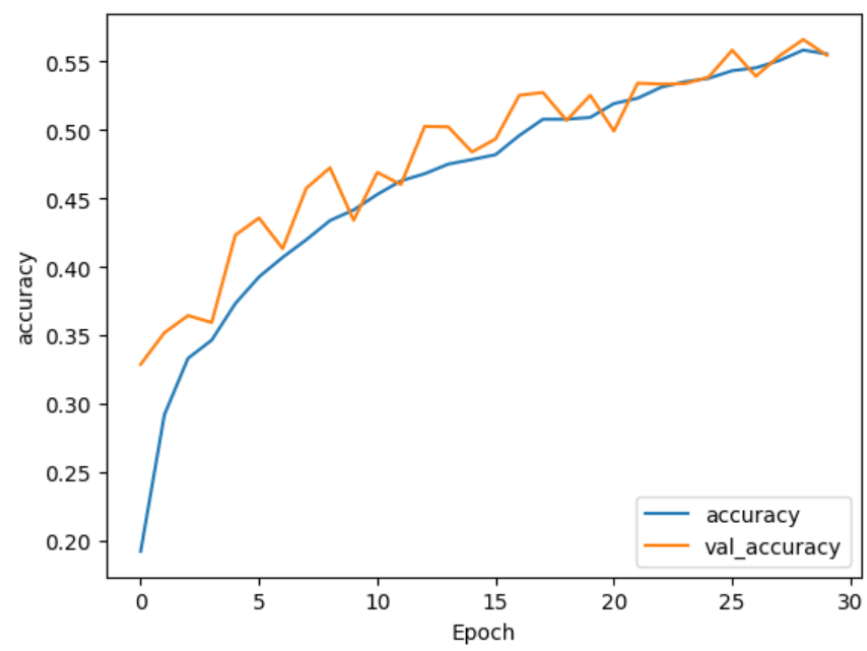
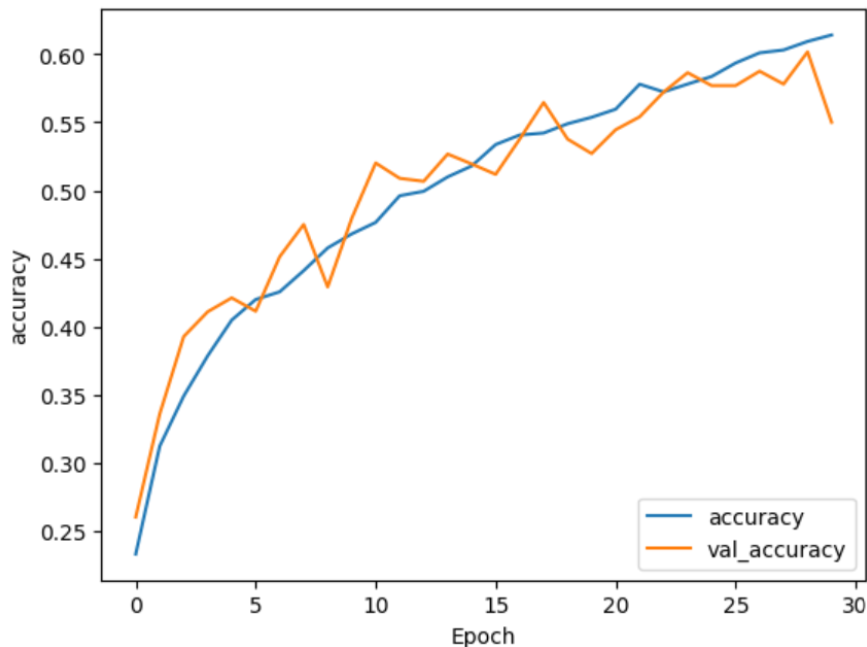
Update model evaluation and training details in paper
Revised the accuracy metrics for the simple model and added detailed evaluation results for both ImageNet and CIFAR-10 datasets. Included new references to support dataset and performance analysis, and updated the training configuration to improve GPU performance and resource management.

Changed region(s): [[0.0, 0.0, 1.0, 1.0]]

diff --git a/project/paper.tex b/project/paper.tex
@@ -111,7 +111,7 @@ These constraints were the reason why the filter depths range from 32 to 256.
     \label{fig:cnn-simple}
 \end{figure}
 
-This simple model, when trained for 30 epochs, achieved a maximum accuracy of 55.8\% at Epoch 29 as shown in Figure \ref{fig:googlenet-simple-accuracy}.
+This simple model, when trained for 30 epochs, achieved a maximum accuracy of 57.2\% at Epoch 23 as shown in Figure \ref{fig:googlenet-simple-accuracy}.
 
 The validation accuracy and training accuracy track well, indicating a lack of overfitting. Applying data augmentation to the training set mitigates overfitting, especially with the smaller dataset. The augmentation code is shown in Listing \ref{lst:augmentation}
 
@@ -158,25 +158,66 @@ The GoogLeNet architecture is explained in tabular form in Table 1 in the Szeged
 \end{figure}
 
 \subsection{Model Evaluation}
-Both networks were evaluated using two sets of images. The first is the 1,000 ImageNet images set aside prior to model training. The second set is sourced from the CIFAR-10 dataset. The CIFAR-10 dataset contains 1,000 32x32 RGB images.
+Both networks were evaluated using two sets of images. The first is the 1,000 ImageNet images set aside prior to model training. The second set is sourced from the CIFAR-10 dataset\cite{kim_cifar10_images}. The CIFAR-10 dataset contains 1,000 32x32 RGB images.
 
 \subsubsection{Performance On Unseen Imagenet Images}
+100 images from each class was set aside in order to evaluate the performance of the two models on unseen images. The accuracy of the two models is shown in \ref{tab:perf-unseen-imagenet}.
+
+\begin{table}[ht]
+    \centering
+    \begin{tabular}{ll}
+    \hline
+    \textbf{Model} & \textbf{Accuracy} \\ \hline
+    Simple & 58.1\% \\ \hline
+    GoogLeNet Reproduction & ??? \\ \hline
+    \end{tabular}
+    \caption{Models' performance on unseen ImageNet images}
+    \label{tab:perf-unseen-imagenet}
+\end{table}
+
+The simpler model's accuracy of 58.1\% on the test set is slightly better than the training accuracy of 57.2\%. This indicates that the model generalizes well and did not merely memorize the training images. In machine learning, when a model performs well on unseen data compared to the training data, it suggests that the model has learned useful patterns that extend beyond the specific examples in the training set.
+
+Furthermore, the relatively small difference in training accuracy and evaluation accuracy indicates that the model has managed to avoid overfitting. Overfitting typically results in high training accuracy but significantly lower evaluation accuracy. The fact that the model's test accuracy is slightly higher than its training accuracy can be attributed to augmentation done on the training set but not the evaluation set.
+
+On the other hand, the 58.1\% accuracy also indicates that there is room for improvement, suggesting that the model might benefit from more complexity or further tuning.
+
+
 
 \subsubsection{Performance On CIFAR-10 Images}
+The CIFAR-10 dataset consists of 1,000 32x32 RGB images (100 images per class). The accuracy of the two models against the unseen CIFAR-10 images is shown in \ref{tab:perf-unseen-imagenet}.
+
+\begin{table}[ht]
+    \centering
+    \begin{tabular}{ll}
+    \hline
+    \textbf{Model} & \textbf{Accuracy} \\ \hline
+    Simple & 21.4\% \\ \hline
+    GoogLeNet Reproduction & ??? \\ \hline
+    \end{tabular}
+    \caption{Models' performance on unseen CIFAR-10 images}
+    \label{tab:perf-unseen-imagenet}
+\end{table}
+
+The low accuracy of 21.4\% achieved by the simple model could be for several reasons. First, the models were trained on images having a relatively high resolution compared to CIFAR-10's 32x32 images. When models are trained on larger images, the models learn to identify fine-grained details which can become indistinguishable when downscaled to much smaller dimensions~\cite{simonyan2015vgg}.
+
+Additionally, the convolutional filters in the models are likely too large for the small CIFAR-10 images, causing the network to miss out on important features. In a 32x32 image, for instance, using large filter sizes or pooling layers can result in excessive downsampling, leading to a significant loss of spatial information, which ultimately hampers the model's ability to classify the images accurately.
+
+Finally, CIFAR-10, like ImageNet, contains complex image classes, which are often difficult to distinguish at such a low resolution. The limited information provided by 32x32 images presents additional challenges for models trained on high-resolution images, as they may rely on more detailed textures and edges, which are not as pronounced in low-resolution images~\cite{krizhevsky2012imagenet}.
+
 
 \subsection{Challenges}
 The Inception architecture's key contribution is its ability to balance computational efficiency with accuracy. By incorporating 1x1 convolutions for dimensionality reduction and parallel convolutions in the Inception modules, GoogLeNet achieves leading performance without increased compute cost or model parameters.
 
 In our reproduction, the model's performance on the ImageNet dataset was not  close to the results reported in the original paper. This is not an indictment on the effectiveness of the architecture, however. Rather, the small dataset size could be a factor. Additionally, our interpretation of the Inception modules to code could have variations from the code used by Szegedy et al.
 
-One of the challenges we encountered was the high computational demand of training, event on the subset of ImageNet images we used. Although GoogLeNet is more efficient than many of its contemporaries, training still required GPU resources. We used data augmentation techniques, such as random cropping, random horizontal flipping, and random zoom to avoid overfitting. We also needed to reduce the learning rate to 0.0001 and reduce batch size to 16 so as not to overwhelm the GPU. The training performance is summarized in Table \ref{tab:training_times}
+One of the challenges we encountered was the high computational demand of training, event on the subset of ImageNet images we used. Although GoogLeNet is more efficient than many of its contemporaries, training still required GPU resources. We used data augmentation techniques, such as random cropping, random horizontal flipping, and random zoom to avoid overfitting. We also needed to reduce the learning rate to 0.0001, reduced batch size to 16, and enabled memory growth\cite{tensorflow_memory_growth} so as not to overwhelm the GPU. Prefetching was also implemented to improve performance\cite{tensorflow_data_performance}. The training performance is summarized in Table \ref{tab:training_times}
 
 \begin{table}[ht]
     \centering
     \begin{tabular}{llll}
     \hline
     \textbf{Model} & \textbf{Batch size} & \textbf{Epochs} & \textbf{Training time (minutes)} \\  \hline
-    Simple & 16 & 30 & ?? \\ \hline
+    Simple & 16 & 30 & 73 \\ \hline
     Complex & 16 & 30 & 69 \\ \hline
     \end{tabular}
     \caption{Training times}
